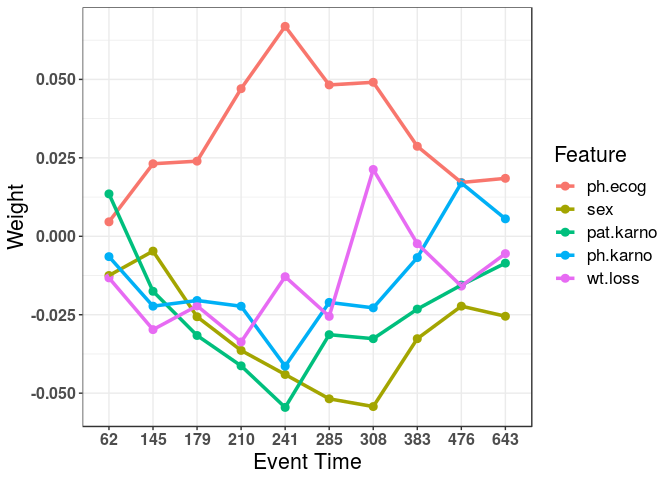
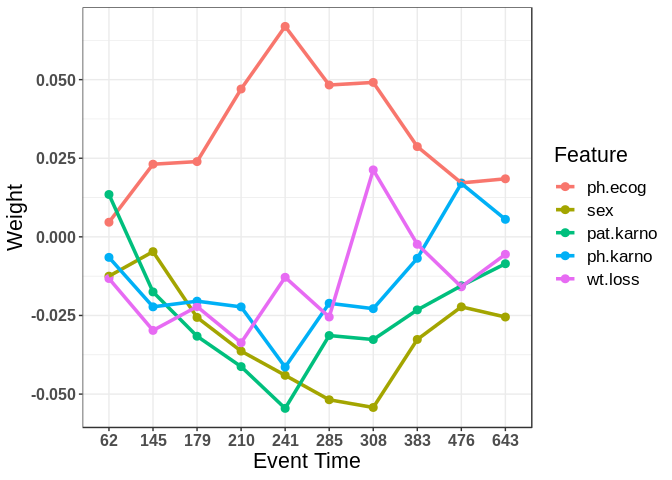
update readme

diff --git a/README.md b/README.md
@@ -1,16 +1,26 @@
 
 <!-- README.md is generated from README.Rmd. Please edit that file -->
-MTLR
-====
 
-[![Build Status](https://travis-ci.org/haiderstats/MTLR.svg?branch=master)](https://travis-ci.org/haiderstats/MTLR) [![codecov](https://codecov.io/gh/haiderstats/MTLR/branch/master/graphs/badge.svg)](https://codecov.io/gh/haiderstats/MTLR) ![](http://cranlogs.r-pkg.org/badges/grand-total/MTLR)
+# MTLR
 
-The goal of `MTLR` is to provide an R implementation for [Multi-Task Logistic Regression](https://papers.nips.cc/paper/4210-learning-patient-specific-cancer-survival-distributions-as-a-sequence-of-dependent-regressors). In addition to supplying the model provided by [Yu et al.](https://papers.nips.cc/paper/4210-learning-patient-specific-cancer-survival-distributions-as-a-sequence-of-dependent-regressors) we have extended the model for left censoring, interval censoring, and a mixture of censoring types. Functionality includes training an MTLR model, predicting survival curves for new observations, and plotting these survival curves and feature weights estimated by MTLR.
+[![R-CMD-check](https://github.com/haiderstats/MTLR/workflows/R-CMD-check/badge.svg)](https://github.com/haiderstats/MTLR/actions)
+[![codecov](https://codecov.io/gh/haiderstats/MTLR/branch/master/graphs/badge.svg)](https://codecov.io/gh/haiderstats/MTLR)
+![](http://cranlogs.r-pkg.org/badges/grand-total/MTLR)
 
-Installation
-------------
+The goal of `MTLR` is to provide an R implementation for [Multi-Task
+Logistic
+Regression](https://papers.nips.cc/paper/4210-learning-patient-specific-cancer-survival-distributions-as-a-sequence-of-dependent-regressors).
+In addition to supplying the model provided by [Yu et
+al.](https://papers.nips.cc/paper/4210-learning-patient-specific-cancer-survival-distributions-as-a-sequence-of-dependent-regressors)
+we have extended the model for left censoring, interval censoring, and a
+mixture of censoring types. Functionality includes training an MTLR
+model, predicting survival curves for new observations, and plotting
+these survival curves and feature weights estimated by MTLR.
 
-You can install the version from CRAN or the development version from GitHub:
+## Installation
+
+You can install the version from CRAN or the development version from
+GitHub:
 
 ``` r
 # CRAN:
@@ -21,10 +31,11 @@ install.packages("MTLR")
 devtools::install_github("haiderstats/MTLR")
 ```
 
-Example
--------
+## Example
 
-Given a survival dataset containing event time and event status indicator (censored/uncensored), we can produce an MTLR model. For example, consider the `lung` dataset from the `survival` package:
+Given a survival dataset containing event time and event status
+indicator (censored/uncensored), we can produce an MTLR model. For
+example, consider the `lung` dataset from the `survival` package:
 
 ``` r
 # Load survival for the lung dataset and the Surv() function.
@@ -42,16 +53,16 @@ print(mod)
 #> 
 #> Weights:
 #>           Bias      inst      age      sex ph.ecog ph.karno pat.karno meal.cal  wt.loss
-#> 62.27   0.1147 -0.017981  0.04891 -0.01249 0.00461 -0.00648   0.01352 -0.02617 -0.01325
-#> 145.36  0.1362 -0.021147  0.03275 -0.00473 0.02312 -0.02227  -0.01753 -0.01105 -0.02974
-#> 179.27  0.2119 -0.008203  0.02260 -0.02564 0.02394 -0.02046  -0.03161 -0.02310 -0.02218
-#> 210.36  0.0398  0.000359  0.00816 -0.03638 0.04704 -0.02230  -0.04129 -0.01410 -0.03367
-#> 241.36 -0.0996  0.009570 -0.01581 -0.04405 0.06690 -0.04139  -0.05453 -0.00808 -0.01288
-#> 284.55 -0.2299  0.004869 -0.00476 -0.05180 0.04824 -0.02107  -0.03135  0.00237 -0.02552
-#> 308.18 -0.3012 -0.007743 -0.00467 -0.05426 0.04908 -0.02280  -0.03264 -0.01608  0.02130
-#> 383.45 -0.0289 -0.019985 -0.01030 -0.03263 0.02868 -0.00680  -0.02321 -0.01458 -0.00235
-#> 476.27 -0.1285 -0.010232  0.00106 -0.02226 0.01715  0.01699  -0.01555 -0.02112 -0.01587
-#> 642.82 -0.3513 -0.014975  0.02291 -0.02548 0.01847  0.00556  -0.00856  0.00373 -0.00552
+#> 62.27   0.1113 -0.017979  0.04894 -0.01250 0.00465 -0.00652   0.01347 -0.02619 -0.01326
+#> 145.36  0.1381 -0.021136  0.03275 -0.00471 0.02310 -0.02226  -0.01751 -0.01105 -0.02975
+#> 179.27  0.2095 -0.008194  0.02260 -0.02562 0.02393 -0.02045  -0.03160 -0.02310 -0.02218
+#> 210.36  0.0464  0.000371  0.00815 -0.03634 0.04702 -0.02227  -0.04127 -0.01410 -0.03367
+#> 241.36 -0.1012  0.009570 -0.01580 -0.04404 0.06693 -0.04142  -0.05454 -0.00808 -0.01286
+#> 284.55 -0.2372  0.004866 -0.00474 -0.05181 0.04829 -0.02112  -0.03138  0.00237 -0.02549
+#> 308.18 -0.2960 -0.007731 -0.00466 -0.05426 0.04912 -0.02284  -0.03266 -0.01607  0.02130
+#> 383.45 -0.0286 -0.019974 -0.01029 -0.03263 0.02870 -0.00682  -0.02323 -0.01458 -0.00236
+#> 476.27 -0.1277 -0.010224  0.00106 -0.02226 0.01716  0.01699  -0.01556 -0.02111 -0.01589
+#> 642.82 -0.3538 -0.014985  0.02291 -0.02550 0.01846  0.00557  -0.00854  0.00376 -0.00555
 #Plot feature weights:
 plot(mod)
 ```
